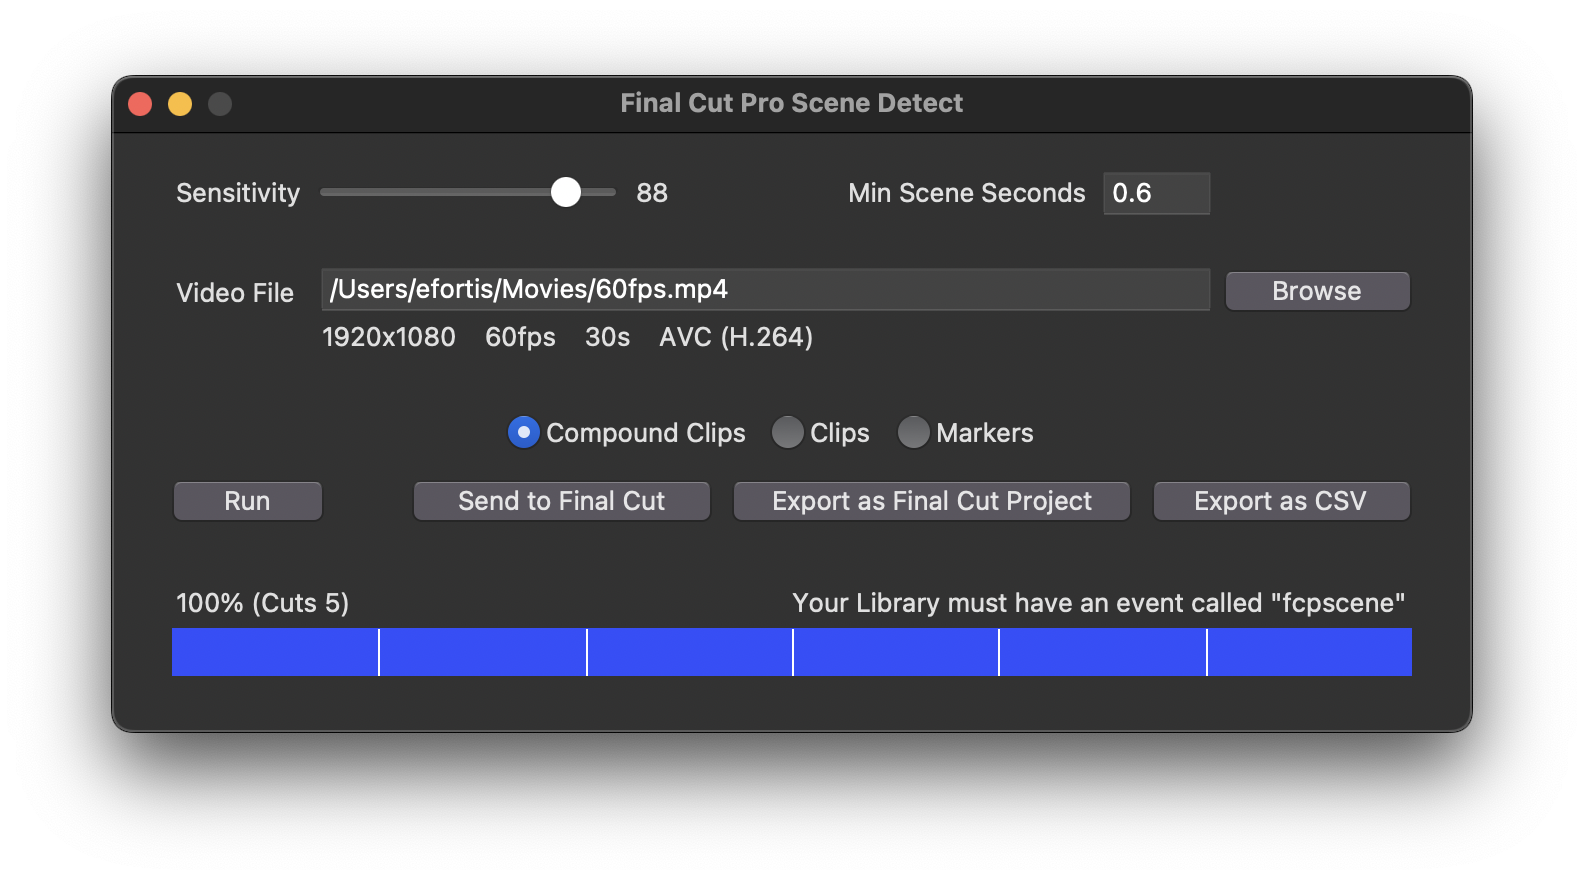
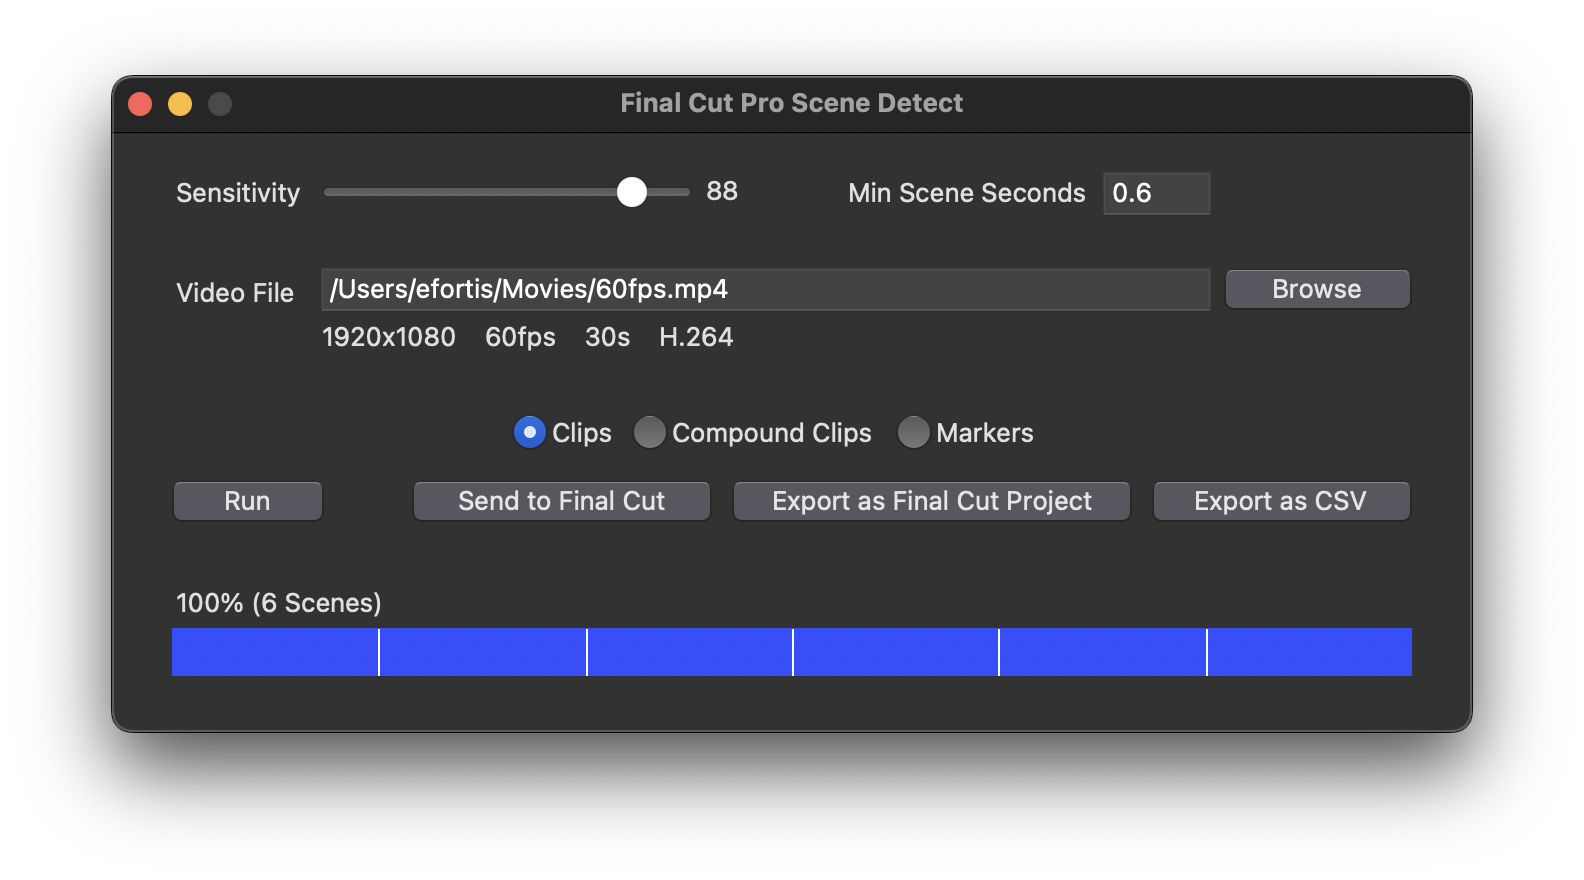
fix scene count

diff --git a/fcpscene/cuts_to_clips.py b/fcpscene/cuts_to_clips.py
@@ -5,7 +5,7 @@ from .detect_scene_changes import CutTimes
 
 
 @dataclass
-class FCPClip:
+class Clip:
   """Describes a Final Cut Pro clip
 
   Attributes:
@@ -20,7 +20,7 @@ class FCPClip:
   duration: str
 
 
-def cuts_to_clips(cuts: CutTimes, v: VideoAttr) -> list[FCPClip]:
+def cuts_to_clips(cuts: CutTimes, v: VideoAttr) -> list[Clip]:
   """
   Background:
     The clip’s [left and right] edges — `offset` and `offset+duration` — are in
@@ -41,7 +41,7 @@ def cuts_to_clips(cuts: CutTimes, v: VideoAttr) -> list[FCPClip]:
   for i, frame in enumerate(cut_frames[:-1]):
     offset_ticks = frame * v.fps_denominator
     duration_ticks = (cut_frames[i + 1] - frame) * v.fps_denominator
-    clips.append(FCPClip(
+    clips.append(Clip(
       seq=f'{i + 1:0{seq_digits}}',
       ref_id=f'r{i + first_available_ref_id}',
       offset=to_fcp_time(offset_ticks, v.fps_numerator),

diff --git a/fcpscene/app_cli.py b/fcpscene/app_cli.py
@@ -103,6 +103,7 @@ def main():
   if not args.quiet:
     print(v.summary)
     bus.subscribe_progress(print_progress)
+
   try:
     cuts = detect_scene_changes(v, bus, args.sensitivity, args.proxy_width, args.min_scene_seconds)
     process_cuts(cuts, v, args.mode, args.output)
@@ -111,9 +112,6 @@ def main():
 
 
 def process_cuts(cuts, v, mode, out_file):
-  if out_file and out_file.endswith('.csv'):
-    mode = 'csv'
-
   if mode == 'count':
     print(len(cuts) - 2)
     return
@@ -122,7 +120,7 @@ def process_cuts(cuts, v, mode, out_file):
     print(*cuts[1:-1])
     return
 
-  if mode == 'csv':
+  if out_file and out_file.endswith('.csv'):
     txt = to_csv_clips(cuts)
   elif mode == 'markers':
     txt = to_fcpxml_markers(cuts, v)

diff --git a/fcpscene/video_attr.py b/fcpscene/video_attr.py
@@ -68,15 +68,15 @@ class VideoAttr(FFProbe):
   def pretty_codec_name(self):
     # ffmpeg -codecs | grep '^...V'
     return {
-      'dnxhd': 'Avid DNxHD',
+      'dnxhd': 'DNxHD',
       'dvvideo': 'DV (Digital Video)',
-      'h264': 'AVC (H.264)',
-      'hevc': 'HVEC (H.265)',
+      'h264': 'H.264',
+      'hevc': 'H.265',
       'jpeg2000': 'JPEG 2000',
       'mpeg4': 'MPEG-4 Part 2',
       'prores': 'ProRes',
       'qtrle': 'QuickTime RLE',
-      'rawvideo': 'Uncompressed Video',
+      'rawvideo': 'Uncompressed',
     }.get(self.codec_name, self.codec_name)
 
   @property

diff --git a/fcpscene/detect_scene_changes.py b/fcpscene/detect_scene_changes.py
@@ -12,8 +12,8 @@ CutTimes = list[float]
 
 def count_scenes(progress: float, cuts: CutTimes) -> int:
   if progress < 1:
-    return len(cuts) - 1 # Exclude start
-  return len(cuts) - 2 # Exclude start and end
+    return len(cuts)
+  return len(cuts) - 1 # Exclude end
 
 
 def detect_scene_changes(v, bus, sensitivity, proxy_width, min_scene_secs, start_time=0) -> CutTimes:

diff --git a/fcpscene/__init__.py b/fcpscene/__init__.py
@@ -1,4 +1,4 @@
-__version__ = '1.8.0'
+__version__ = '1.8.1'
 __repo_url__ = 'https://github.com/ericfortis/final-cut-pro-scene-detect'
 __title__ = 'Final Cut Pro Scene Detect'
 __description__ = 'Generates a Final Cut Pro XML project with scene cuts from a video'
